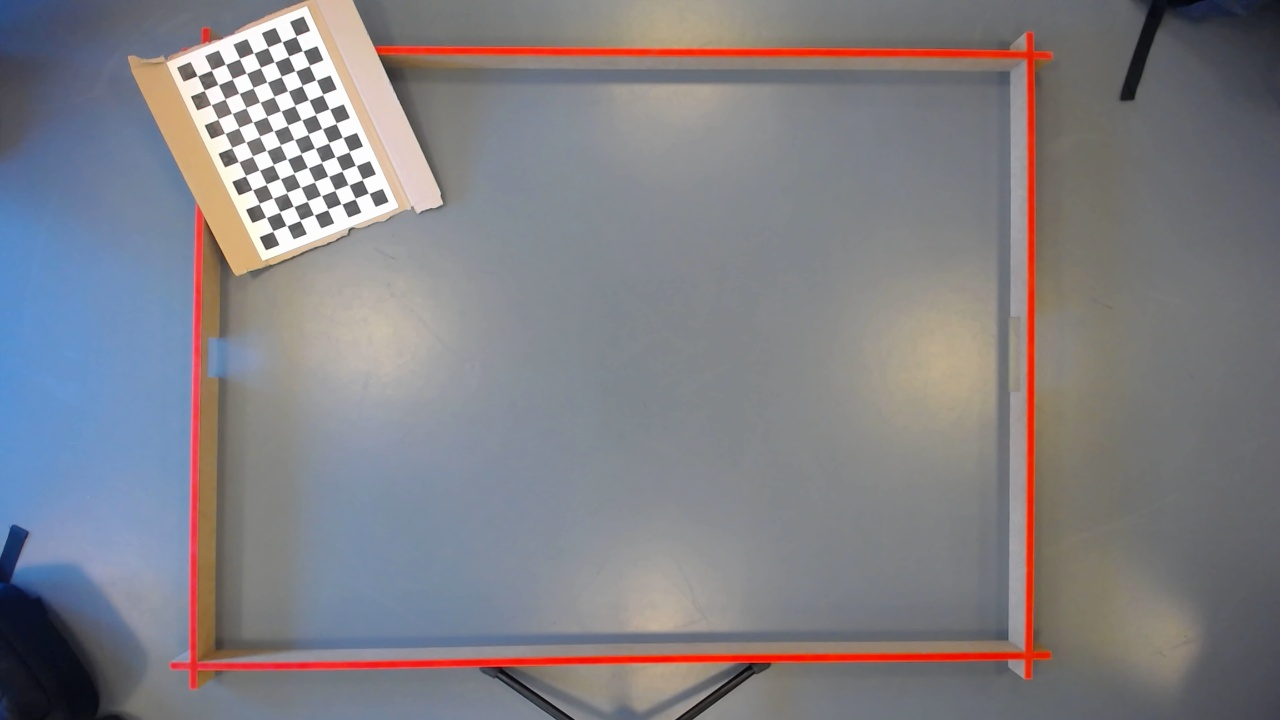
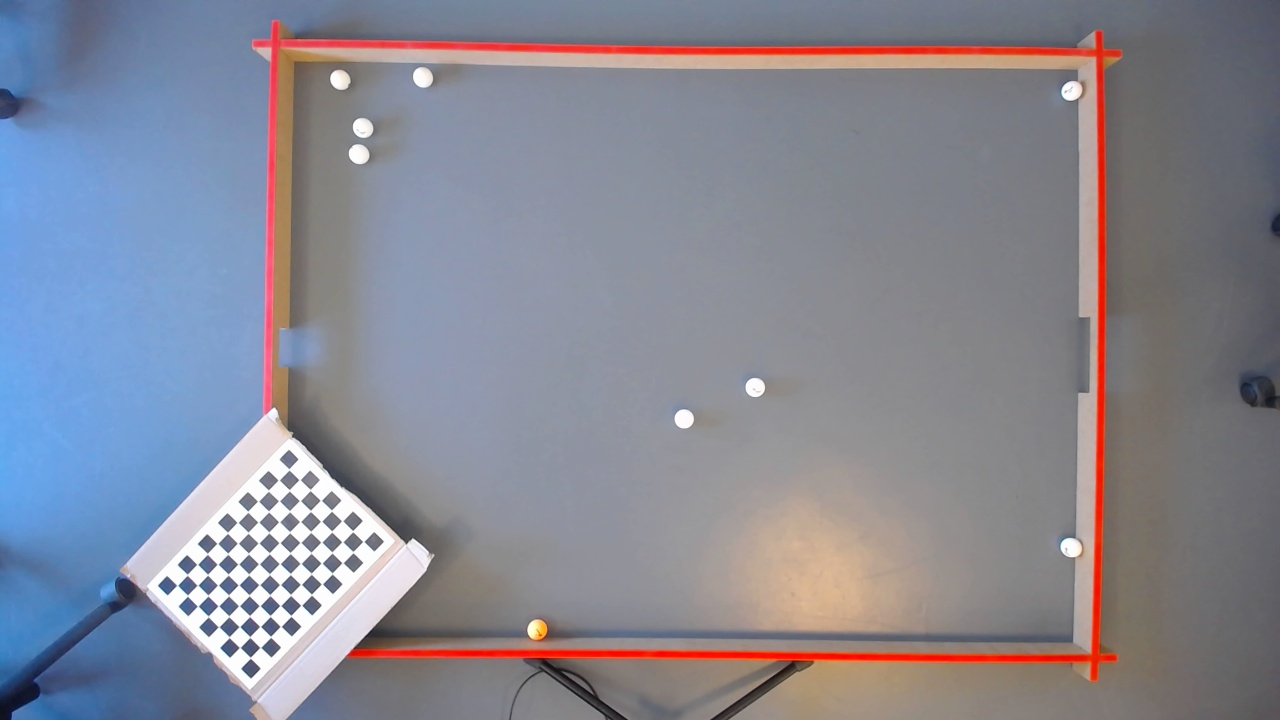
img recog update and some pathfinding changes

diff --git a/detectRobotAndBalls.py b/detectRobotAndBalls.py
@@ -2,22 +2,21 @@ import sys
 import cv2 as cv
 import numpy as np
 import time
-import Pathfinder
-
+import Calibration.cameraCalibrationv2
 # Image recognition now takes a videoInput instead of a frame, so it does not return anything and wait until
 # the robot is found
 def imageRecognitionHD(frame):
-
+    videoCapture = cv.VideoCapture(1, cv.CAP_DSHOW)
+    videoCapture.set(cv.CAP_PROP_FRAME_WIDTH, 1280)
+    videoCapture.set(cv.CAP_PROP_FRAME_HEIGHT, 720)
     while 1:
-        videoCapture = cv.VideoCapture(1, cv.CAP_DSHOW)
-        videoCapture.set(cv.CAP_PROP_FRAME_WIDTH, 1280)
-        videoCapture.set(cv.CAP_PROP_FRAME_HEIGHT, 720)
-
         balls = []
         back = []
         front = []
-
         ret, image = videoCapture.read()
+        #image = Calibration.cameraCalibrationv2.continuous_undistortion(image)
+
+
 
         if ret is None:
             print("No image found")
@@ -31,6 +30,8 @@ def imageRecognitionHD(frame):
         img_height, img_width, _ = image.shape
 
         # Circle detection
+        hsv = cv.cvtColor(image, cv.COLOR_BGR2HSV)
+
         gray = cv.cvtColor(image, cv.COLOR_BGR2GRAY)
         gray_blurred = cv.blur(gray, (3, 3))
         detected_Balls = cv.HoughCircles(
@@ -38,7 +39,7 @@ def imageRecognitionHD(frame):
             cv.HOUGH_GRADIENT,
             1,
             20,
-            param1=50,
+            param1=70,
             param2=12,
             minRadius=8,
             maxRadius=11
@@ -62,8 +63,8 @@ def imageRecognitionHD(frame):
             20,
             param1=30,
             param2=20,
-            minRadius=13,
-            maxRadius=17
+            minRadius=14,
+            maxRadius=18
         )
 
         circle = 0
@@ -73,16 +74,25 @@ def imageRecognitionHD(frame):
 
             for pt in detected_circles[0, :]:
                 a, b, r = pt[0], pt[1], pt[2]
+                if a < img_width and b < img_height:
+                    hsv_pixel = hsv[b, a]
 
-                if np.logical_and.reduce(
-                        (70 >= image[b, a][0], 100 <= image[b, a][1], 240 >= image[b, a][1], 160 <= image[b, a][2])):
+                # Orange color range in HSV
+                orange_lower = np.array([10, 70, 50], dtype=np.uint8)
+                orange_upper = np.array([35, 255, 255], dtype=np.uint8)
+
+                if np.all(cv.inRange(hsv_pixel, orange_lower, orange_upper)):
                     print("CENTER OF ORANGE BALL SHOULD BE: " + str(a) + " " + str(b))
                     cv.circle(blank, (a, b), r, (0, 150, 255), -1)
                     balls.append([a, b])
                     circle += 1
                     continue
 
-                if np.logical_and.reduce((190 <= image[b, a][2], 190 <= image[b, a][0], 190 <= image[b, a][1])):
+                # White color range in HSV
+                white_lower = np.array([0, 0, 200], dtype=np.uint8)
+                white_upper = np.array([179, 30, 255], dtype=np.uint8)
+
+                if np.all(cv.inRange(hsv_pixel, white_lower, white_upper)):
                     cv.circle(blank, (a, b), r, (255, 255, 255), -1)
                     print("Center of this circle should be: " + str(a) + " " + str(b))
                     balls.append([a, b])
@@ -92,22 +102,14 @@ def imageRecognitionHD(frame):
             detected_circles = np.uint16(np.around(detected_Front))
             for pt in detected_circles[0, :]:
                 a, b, r = pt[0], pt[1], pt[2]
+                if a < img_width and b < img_height:
+                    hsv_pixel = hsv[b, a]
 
-                bgr_pixel = image[b, a]
+                # Blue color range in HSV
+                blue_lower = np.array([100, 100, 100], dtype=np.uint8)
+                blue_upper = np.array([120, 255, 255], dtype=np.uint8)
 
-                blue = bgr_pixel[0]
-                green = bgr_pixel[1]
-                red = bgr_pixel[2]
-
-                blue_threshold = 10
-                light_blue_threshold = 200
-
-                # Adaptive Gaussian thresholding
-                gray_roi = gray_blurred[b - r: b + r, a - r: a + r]
-                _, threshold = cv.threshold(gray_roi, 0, 255, cv.THRESH_BINARY + cv.THRESH_OTSU)
-                blue_threshold = np.mean(threshold) * 0.9
-
-                if (blue > red + blue_threshold and blue > green + blue_threshold) or blue >= light_blue_threshold:
+                if np.all(cv.inRange(hsv_pixel, blue_lower, blue_upper)):
                     print("CENTER OF BLUE BALL SHOULD BE: " + str(a) + " " + str(b))
                     cv.circle(blank, (a, b), r, (255, 255, 0), -1)
                     front.append(a)
@@ -119,21 +121,16 @@ def imageRecognitionHD(frame):
             detected_circles = np.uint16(np.around(detected_Back))
             for pt in detected_circles[0, :]:
                 a, b, r = pt[0], pt[1], pt[2]
+                if a < img_width and b < img_height:
+                    hsv_pixel = hsv[b, a]
 
-                bgr_pixel = image[b, a]
 
-                blue = bgr_pixel[0]
-                green = bgr_pixel[1]
-                red = bgr_pixel[2]
+                # Green color range in HSV
+                green_lower = np.array([30, 50, 50], dtype=np.uint8)
+                green_upper = np.array([120, 255, 255], dtype=np.uint8)
 
-                green_threshold = -40
 
-                # Adaptive Gaussian thresholding
-                gray_roi = gray_blurred[b - r: b + r, a - r: a + r]
-                _, threshold = cv.threshold(gray_roi, 0, 255, cv.THRESH_BINARY + cv.THRESH_OTSU)
-                green_threshold = np.mean(threshold) * -0.4
-
-                if green > blue + green_threshold and green > red + green_threshold:
+                if np.all(cv.inRange(hsv_pixel, green_lower, green_upper)):
                     print("CENTER OF GREEN BALL SHOULD BE: " + str(a) + " " + str(b))
                     cv.circle(blank, (a, b), r, (0, 255, 100), -1)
                     back.append(a)
@@ -154,6 +151,5 @@ def imageRecognitionHD(frame):
         print('Time for transform: ' + str(time_for_transform))
 
         # cv.waitKey(0)
-        if len(front) == 2 & len(back) == 2:
-            if Pathfinder.get_robot_length(front, back) < 200:
-                return front, back, balls
+        if len(front) == 2 and len(back) == 2 and len(balls) > 0:
+            return front, back, balls

diff --git a/Pathfinder.py b/Pathfinder.py
@@ -189,7 +189,7 @@ def collect_balls(video):
         print(str(angle_to_turn) + " degrees")
         return Moves.MoveClass(MoveTypes.TURN, 500, angle_to_turn)
     else:
-        return Moves.MoveClass(MoveTypes.FORWARD, 500, calculate_drive_distance(distance * 1.2))
+        return Moves.MoveClass(MoveTypes.FORWARD, 500, calculate_drive_distance(distance + 600))
 
 
 def move_to_goal(image, point):
